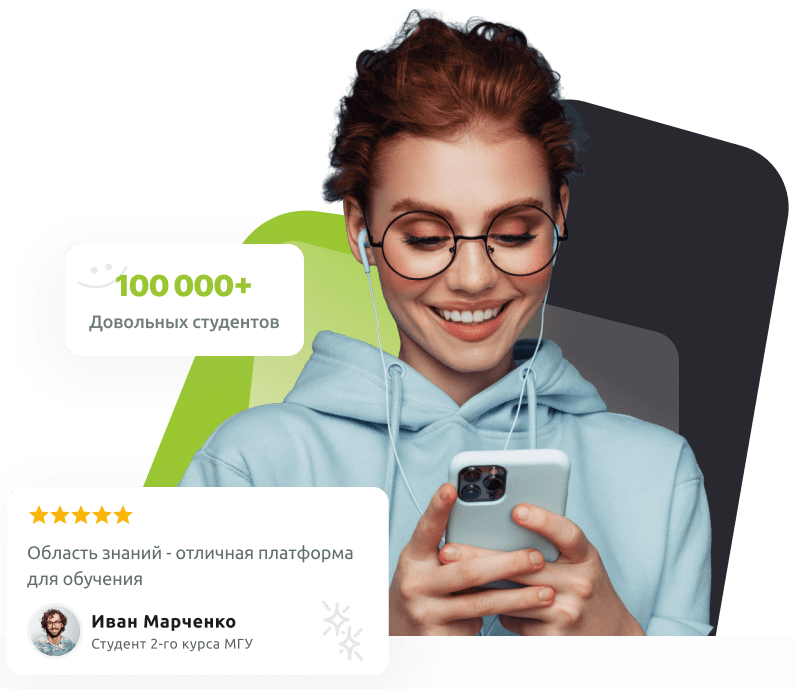
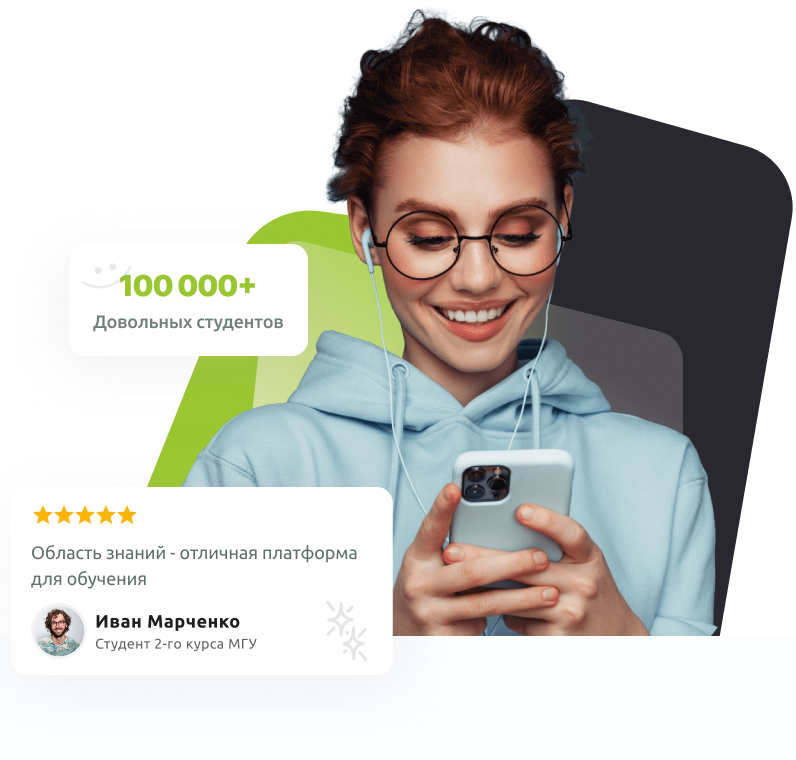
4654316546165

diff --git a/index.html b/index.html
@@ -482,7 +482,7 @@
 
 
 
-	<svg width="0" height="0" class="hidden">
+	<svg style="position: absolute; width: 0; height: 0; overflow: hidden;" class="hidden">
 
 		<symbol width="66" height="51" viewBox="0 0 66 51" xmlns="http://www.w3.org/2000/svg" id="advantages1">
 			<path d="M60 1.5C56.67 0.45 53.01 0 49.5 0C43.65 0 37.35 1.2 33 4.5C28.65 1.2 22.35 0 16.5 0C10.65 0 4.35 1.2 0 4.5V48.45C0 49.2 0.75 49.95 1.5 49.95C1.8 49.95 1.95 49.8 2.25 49.8C6.3 47.85 12.15 46.5 16.5 46.5C22.35 46.5 28.65 47.7 33 51C37.05 48.45 44.4 46.5 49.5 46.5C54.45 46.5 59.55 47.4 63.75 49.65C64.05 49.8 64.2 49.8 64.5 49.8C65.25 49.8 66 49.05 66 48.3V4.5C64.2 3.15 62.25 2.25 60 1.5ZM6 42V7.5C9.3 6.45 12.9 6 16.5 6C20.52 6 25.89 7.23 30 8.97V43.47C25.89 41.73 20.52 40.5 16.5 40.5C12.9 40.5 9.3 40.95 6 42ZM60 42C56.7 40.95 53.1 40.5 49.5 40.5C45.48 40.5 40.11 41.73 36 43.47V8.97C40.11 7.2 45.48 6 49.5 6C53.1 6 56.7 6.45 60 7.5V42Z"/>

diff --git a/css/response_1023.css b/css/response_1023.css
@@ -35,7 +35,7 @@
         margin: 24px auto 0;
     }
     .first-section {
-        margin-bottom: 20px;
+        margin-bottom: -20px;
     }
     .registration_info {
         padding: 25px 30px 395px 30px;
@@ -121,7 +121,7 @@
     }
     .registration .indication {
         font-size: 22px;
-        padding-left: 120px;
+        padding-left: 107px;
     }
     .registration .indication:before {
         top: -9px;
@@ -182,7 +182,7 @@
         width: 100px;
         height: 59px;
         left: 0;
-        top: 10px;
+        top: 0px;
         background-size: contain;
         background-repeat: no-repeat;
     }

diff --git a/css/response_1187.css b/css/response_1187.css
@@ -102,7 +102,7 @@
     }
     .first-section_img {
         width: 500px;
-        height: 433px;
+        height: 478px;
     }
     .first-section_info {
         margin-top: 30px;
@@ -254,7 +254,7 @@
         width: 221px;
     }
     .registration .indication:before {
-        top: 38px;
+        top: 0px;
     }
     footer {
         margin-top: 20px;
@@ -269,6 +269,10 @@
     }
     .menu_open header {
         border-bottom: 1px solid #333;
+    }
+    .registration .indication {
+        font-size: 29px;
+        z-index: 2;
     }
 
  

diff --git a/css/styles.css b/css/styles.css
@@ -1045,7 +1045,7 @@ header .cont {
 .registration .indication {
     font-family: 'Caveat';
     font-size: 32px;
-    line-height: 128.9%;
+    line-height: 105%;
     color: #FFFFFF;
     transform: rotate(3.61deg);
     padding-left: 170px;
@@ -1058,9 +1058,10 @@ header .cont {
     width: 170px;
     height: 101px;
     left: 0;
-    top: -5px;
+    top: -4px;
     background: url(../images/arrow2.svg);
     background-size: contain;
+    transform: rotate(-3.61deg);
 }
 .registration_item-link {
     display: flex;

diff --git a/css/response_1300.css b/css/response_1300.css
@@ -3,7 +3,7 @@
     .first-section_img {
         margin-right: 0px;
         width: 660px;
-        height: 571px;
+        height: 573px;
     }
     .first-section_img img {
         width: 100%;

diff --git a/css/response_767.css b/css/response_767.css
@@ -41,7 +41,7 @@
     }
     .first-section_img {
         width: 410px;
-        height: 347px;
+        height: 392px;
     }
     #feature-text {
         font-size: 26px;

diff --git a/css/response_479.css b/css/response_479.css
@@ -2,7 +2,7 @@
 
     .first-section_img {
         width: 310px;
-        height: 262px;
+        height: 296px;
     }
     .advantages_items {
         margin-left: 0px;
